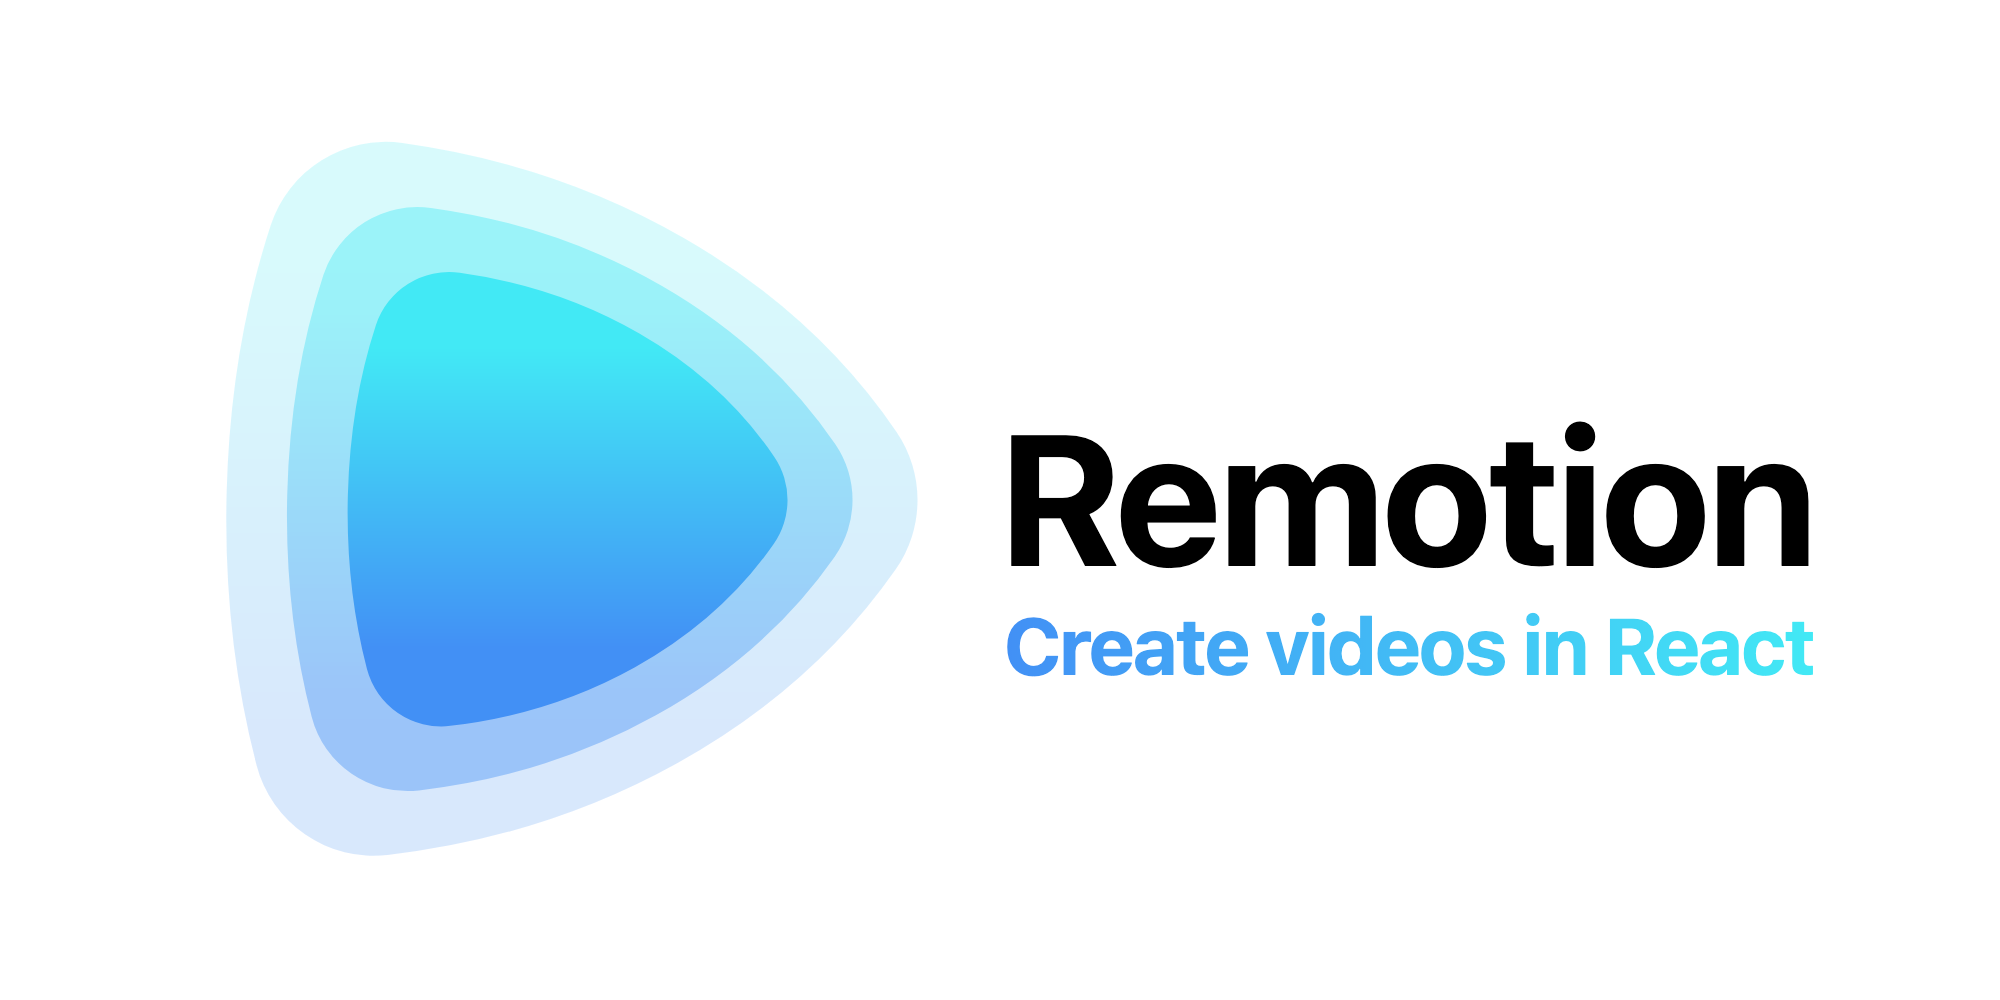
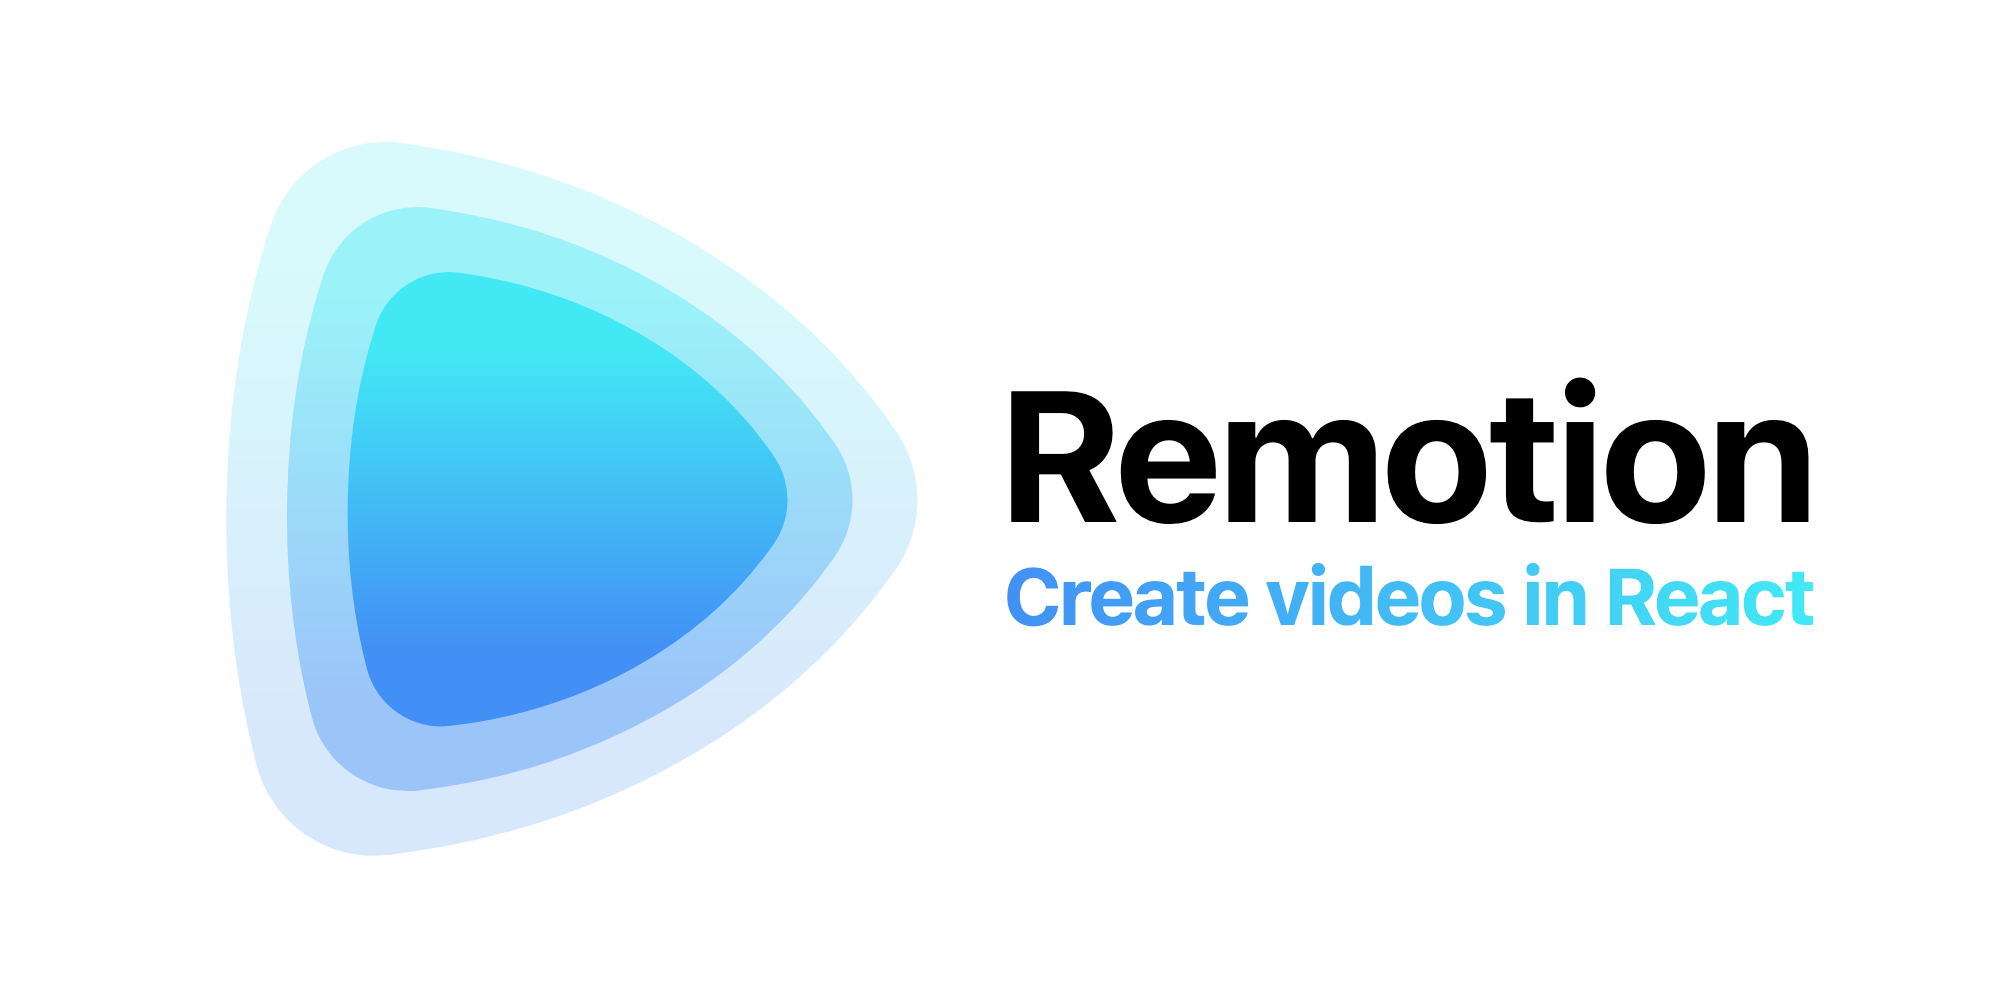
shift a but

Changed region(s): [[0.496, 0.372, 0.93, 0.682]]

diff --git a/src/SocialPreview.tsx b/src/SocialPreview.tsx
@@ -14,7 +14,7 @@ const Subtitle = styled.div`
 	font-family: 'SF Pro Text';
 	font-weight: 700;
 	position: absolute;
-	margin-top: 600px;
+	margin-top: 550px;
 	margin-left: 1005px;
 	background: linear-gradient(to right, #4290f5, #42e9f5);
 	-webkit-background-clip: text;
@@ -36,7 +36,7 @@ export const SocialPreview: React.FC = () => {
 					transform: `scale(0.88)`,
 				}}
 			>
-				<LogoWithTitle />
+				<LogoWithTitle yOffset={-50} />
 			</Container>
 			<Subtitle>Create videos in React</Subtitle>
 		</AbsoluteFill>

diff --git a/src/LogoWithTitle.tsx b/src/LogoWithTitle.tsx
@@ -7,7 +7,9 @@ const Title = styled.div`
 	font-weight: 700;
 `;
 
-export const LogoWithTitle: React.FC = () => {
+export const LogoWithTitle: React.FC<{
+	yOffset: number;
+}> = ({yOffset}) => {
 	return (
 		<div
 			style={{
@@ -21,7 +23,7 @@ export const LogoWithTitle: React.FC = () => {
 		>
 			<Logo />
 			<div style={{flex: 1}}>
-				<Title>Remotion</Title>
+				<Title style={{transform: `translateY(${yOffset}px)`}}>Remotion</Title>
 			</div>
 		</div>
 	);

diff --git a/src/Video.tsx b/src/Video.tsx
@@ -21,6 +21,9 @@ export const RemotionVideo: React.FC = () => {
 				fps={30}
 				durationInFrames={1}
 				id="LogoWithTitle"
+				defaultProps={{
+					yOffset: 0,
+				}}
 			/>
 			<Composition
 				component={SocialPreview}
